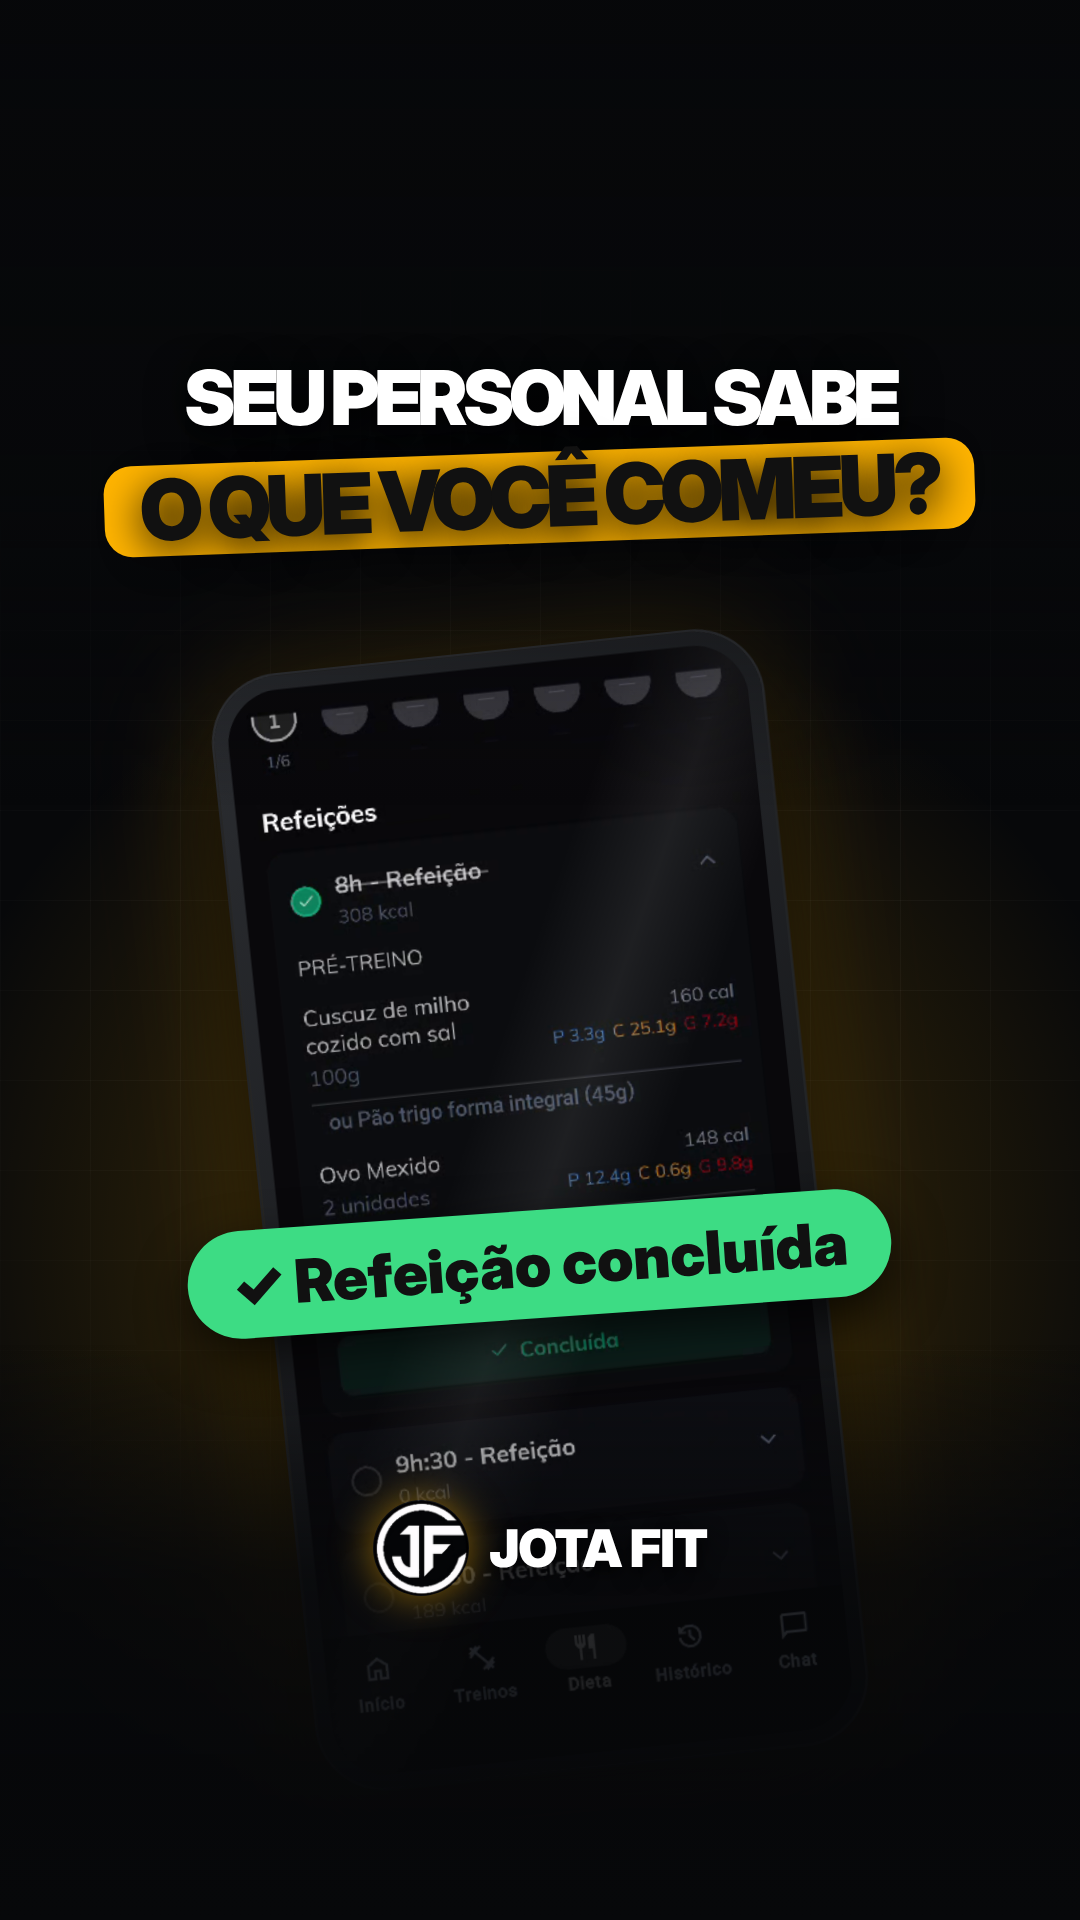
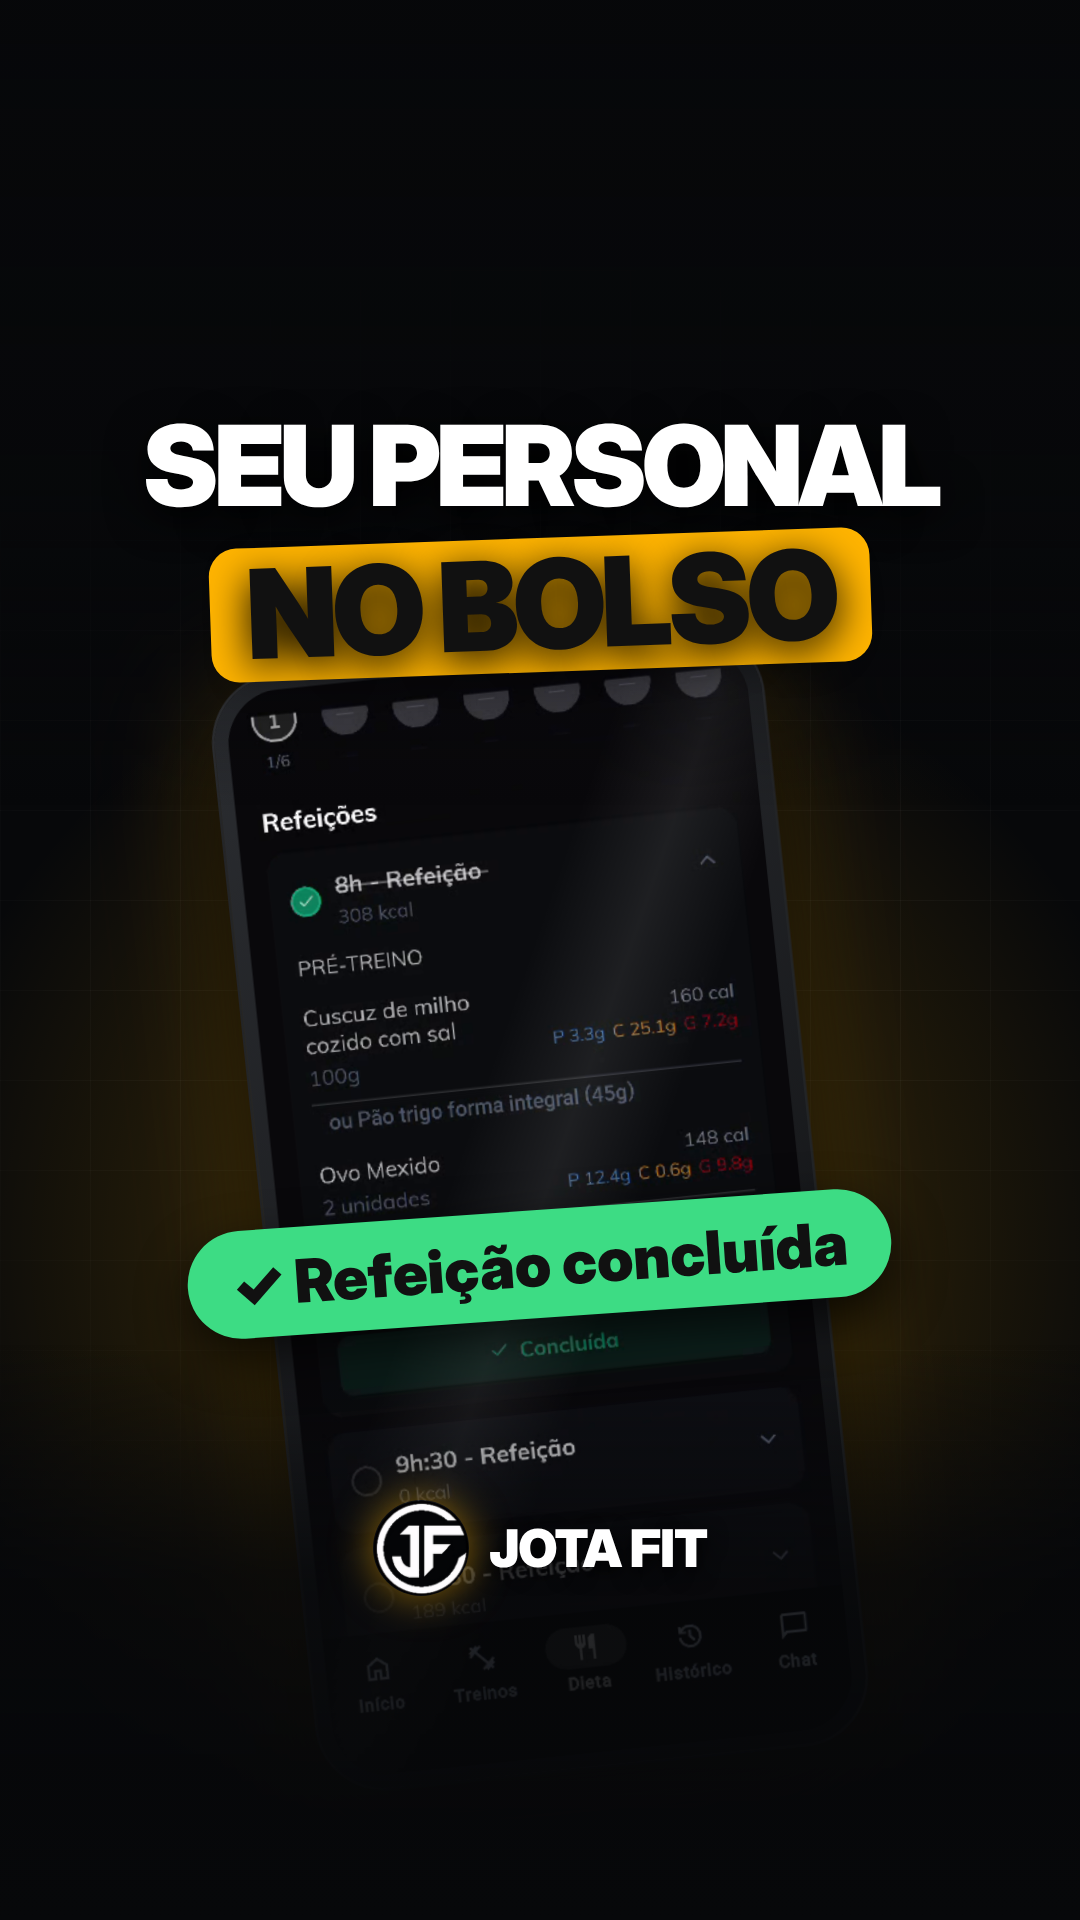
Covers: restore original titles, keep duration tags removed
Claude-Session: https://claude.ai/code/session_01UuH9TpdGoPkFa8AywfFBdK

Changed region(s): [[0.0917, 0.1875, 0.9167, 0.375]]

diff --git a/reels/jotafit-app/src/Capa.tsx b/reels/jotafit-app/src/Capa.tsx
@@ -68,7 +68,8 @@ export const Capa: React.FC<{v: V}> = ({v}) => (
         <PhoneStatic x={480} y={560} s={0.72} r={12} ry={-18}>{vidFrame('t_treinos.mp4', 1)}</PhoneStatic>
         <PhoneStatic x={220} y={520} s={0.84} r={0} z={2}>{vidFrame('c_s3.mp4', 6)}</PhoneStatic>
         <Fade />
-        <Headline l1="TREINO EM PDF?" l2="OLHA ISSO" top={360} />
+        <Tag text="TOUR DO APP" />
+        <Headline l1="A MÁGICA" l2="COMEÇA AQUI" />
       </>
     )}
     {v === 'curto' && (
@@ -78,7 +79,7 @@ export const Capa: React.FC<{v: V}> = ({v}) => (
         <div style={{position: 'absolute', top: 1210, left: 0, right: 0, display: 'flex', justifyContent: 'center', zIndex: 5}}>
           <div style={{fontFamily: FONT, fontWeight: 900, fontSize: 60, color: '#111', background: '#3ddc84', padding: '18px 44px', borderRadius: 999, boxShadow: '0 20px 50px rgba(0,0,0,.7)', transform: 'rotate(-4deg)'}}>✓ Refeição concluída</div>
         </div>
-        <Headline l1="SEU PERSONAL SABE" l2="O QUE VOCÊ COMEU?" top={360} size={84} />
+        <Headline l1="SEU PERSONAL" l2="NO BOLSO" />
       </>
     )}
     {v === 'narrado' && (
@@ -88,7 +89,8 @@ export const Capa: React.FC<{v: V}> = ({v}) => (
         </div>
         <PhoneStatic x={470} y={560} s={0.7} r={8} z={2}>{vidFrame('c_s2.mp4', 7.5)}</PhoneStatic>
         <Fade />
-        <Headline l1="DEPOIS QUE VOCÊ" l2="FECHA COMIGO" top={360} size={104} />
+        <Tag text="TOUR COMPLETO" />
+        <Headline l1="COMO FUNCIONA" l2="A CONSULTORIA" size={100} />
       </>
     )}
     <Brand />
